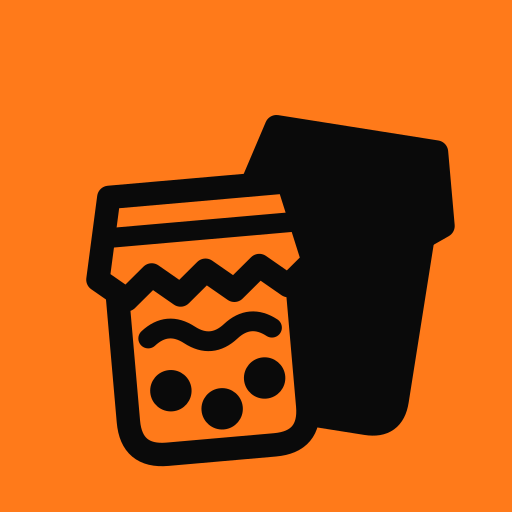
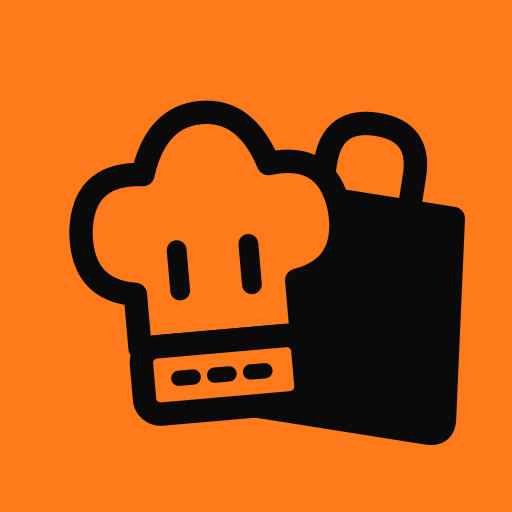
Oggetto simbolo: sacchetto della spesa e cappello da chef
Scelta dell utente al posto dei barattoli: icona, splash, accesso,
dispensa vuota e pulsante "Sposta in dispensa" rigenerati/aggiornati.

Changed region(s): [[0.125, 0.1875, 0.9062, 0.9375]]

diff --git a/src/components/Barattoli.jsx b/src/components/Barattoli.jsx
@@ -1,25 +1,21 @@
-// Oggetto simbolo dell'app: due barattoli di conserva fatta in casa, col
-// tessuto legato sul coperchio (come i due biglietti di Wishlist Viaggi e i
-// due scontrini di Expense Track). Quello dietro è pieno col colore del testo
-// (currentColor), quello davanti ha il colore `fill` con la marmellata e i
-// frutti dentro. Stesso disegno di public/icon.svg.
+// Oggetto simbolo dell'app: sacchetto della spesa e cappello da chef (scelta
+// dell'utente), come i due biglietti di Wishlist e i due scontrini di Expense
+// Track. Dietro pieno (currentColor), davanti col colore `fill`. Stesso
+// disegno di public/icon.svg. (Il nome del file resta storico.)
 export default function Barattoli({ size = 48, fill = "#fff", className = "" }) {
   return (
     <svg width={size} height={size} viewBox="0 0 48 48" fill="none" strokeLinecap="round" strokeLinejoin="round" className={className} aria-hidden="true">
-      {/* dietro: barattolo alto, pieno */}
+      {/* dietro: sacchetto della spesa, pieno */}
       <g transform="translate(17 -1) rotate(9 14 26)" fill="currentColor" stroke="currentColor" strokeWidth="2.6">
-        <path d="M7 20H25V40Q25 43 22 43H10Q7 43 7 40Z"/>
-        <path d="M5 20L7 12H25L27 20L24.5 22L22 20L19.5 22L17 20L14.5 22L12 20L9.5 22L7 20Z"/>
+        <path d="M8 19H28L30.5 41Q30.8 43 28.8 43H7.2Q5.2 43 5.5 41Z"/>
+        <path d="M13 19V15Q13 10 18 10Q23 10 23 15V19" fill="none"/>
       </g>
-      {/* davanti: barattolo basso col tessuto a smerlo e la marmellata */}
+      {/* davanti: cappello da chef */}
       <g transform="translate(1 3) rotate(-5 18 30)" stroke="currentColor">
-        <path d="M8 23H28V39Q28 43 24 43H12Q8 43 8 39Z" fill={fill} strokeWidth="2.6"/>
-        <path d="M6 23L8 14H28L30 23L27 25.5L24 23L21 25.5L18 23L15 25.5L12 23L9 25.5L6 23Z" fill={fill} strokeWidth="2.6"/>
-        <path d="M7.4 18.5H28.6" strokeWidth="2.2"/>
-        <path d="M11 30q2.3-1.8 4.6 0t4.6 0t4.6 0" strokeWidth="2.2"/>
-        <circle cx="13" cy="36" r="1.8" fill="currentColor" strokeWidth="1"/>
-        <circle cx="18.5" cy="38.5" r="1.8" fill="currentColor" strokeWidth="1"/>
-        <circle cx="23.5" cy="35.5" r="1.8" fill="currentColor" strokeWidth="1"/>
+        <path d="M10 31V25Q4 24 4.6 17.4Q5.4 11 12 11.8Q14 5.5 19 5.5Q24 5.5 26 11.8Q32.6 11 33.4 17.4Q34 24 28 25V31Z" fill={fill} strokeWidth="2.6"/>
+        <rect x="10" y="31" width="18" height="7.5" rx="1.8" fill={fill} strokeWidth="2.6"/>
+        <path d="M15 25V20.5M23 25V20.5" strokeWidth="2.2"/>
+        <path d="M14 34.7h10" strokeWidth="1.7" stroke-dasharray="1.6 2.4"/>
       </g>
     </svg>
   );

diff --git a/HANDOFF.md b/HANDOFF.md
@@ -423,7 +423,7 @@ Comandi: `npm run dev` (porta 5173, con proxy `/api/*` locale), `npm run build`,
 
 - **Auth** Supabase: magic-link (email), Google OAuth, Apple OAuth, **Face ID/
   passkey** (WebAuthn, vedi "in sviluppo" per Apple e passkey). Login **a pagina
-  intera** su arancio (veste manifesto del 2026-09-30): i due barattoli,
+  intera** su arancio (veste manifesto del 2026-09-30): i sacchetto della spesa + cappello da chef,
   headline enorme "Cosa c'è in dispensa?" con sottolineatura ondulata nera su
   "dispensa", sottotitolo "La tua cucina, in tasca. **Meno sprechi.** Zero
   pensieri." ("Meno sprechi" su pillola verde: sull'arancio un testo verde non
@@ -589,7 +589,7 @@ Comandi: `npm run dev` (porta 5173, con proxy `/api/*` locale), `npm run build`,
 | `src/constants.js` | Categorie, ordini reparto, **emoji categorie (`CAT_ICON`)**, prompt AI, seed/demo. |
 | `src/index.css` | Veste manifesto: `--sfondo` (colore della schermata), classi comuni (`.gigante`, `.micro`, `.bottone`, `.pillola`, `.tondo`, `.cartellino`, `.campo`...) e CSS PWA/Vaul/splash. Token in `tailwind.config.js`. |
 | `src/lib/colors.js` + `src/hooks/usePageColor.js` | **Colore per schermata** (`PAGE_COLOR`, `pageColorFor`, `setPageColor`: `--sfondo` + `theme-color`). |
-| `src/components/Barattoli.jsx` | **Oggetto simbolo** (due barattoli), stesso disegno di `public/icon.svg`. |
+| `src/components/Barattoli.jsx` | **Oggetto simbolo** (sacchetto della spesa + cappello da chef), stesso disegno di `public/icon.svg`. |
 | `anteprima.html` + `src/anteprima/` | **Pagina di prova solo sviluppo**: schermate vere con dati finti, senza login (`?vista=`, `?foglio=`). Non entra nella build. |
 | `src/components/HouseholdSection.jsx` | UI **Dispensa condivisa** nel Profilo: membri (username + corona sul creatore + "Rimuovi"), inviti, entra-con-codice, switch nucleo, esci, popup conferma espulsione. |
 | `src/components/ProfileSheet.jsx` | Foglio Profilo ("chi sei"): **Nome (username)** al posto della mail, `HouseholdSection`, **Esigenze alimentari** (box 2 righe), azioni dati (Svuota dispensa `data-tour="clear-pantry"`, Esci). ⚙ in alto a destra apre `SettingsSheet`. |

diff --git a/DESIGN-ATTUALE.md b/DESIGN-ATTUALE.md
@@ -48,7 +48,7 @@
   aperta in crema, numeri rossi; **"+" arancio rialzato al centro** (scelta dell'utente), solo in
   Dispensa, con il menu a semicerchio (bollini bianchi, velo nero senza sfocatura).
 - **Avvisi**: pillola nera, azione gialla ("Annulla", "Stop"). Barra timer nera.
-- **Oggetto simbolo: due barattoli** (`components/Barattoli.jsx`, stesso disegno di
+- **Oggetto simbolo: sacchetto della spesa + cappello da chef** (`components/Barattoli.jsx`, stesso disegno di
   `public/icon.svg`): dietro pieno nero, davanti col colore della superficie. Usato per icona,
   splash, accesso, dispensa vuota, "Sto analizzando la spesa" e il pulsante "Sposta in dispensa".
 - **Icona e splash**: barattoli neri sull'arancio; splash con la scritta "Dispensa" (immagine
